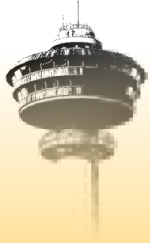
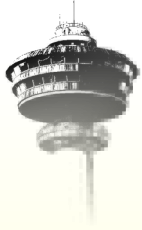
new style, some minor enhancements
git-svn-id: svn+ssh://majakari.net/tampere.rb/trunk@301 493adb5e-7a96-4b8c-87dc-e541e2512a3b

diff --git a/public/stylesheets/general.css b/public/stylesheets/general.css
@@ -1,48 +1,36 @@
 /* default styles originally from scaffold */
 
-/* streamlined colors
-yellow bg: ffe29e
-yellow: ffff9e
-red: 8a2628
-white: fffdff
-green: 475a22
-g1: 7e6f48
-g2: 9c9966
-lg: b9bd9c
-
-*/
-
-/* colors from streamlined era color theme */
-
 html { 
   margin-left: 10%;
   margin-right: 10%;
-  margin-top: 1em;
+  margin-top: 0.5em;
 }
 
-body { background-color: #ffe29e; /* yellow */
+body { background-color: #ffffef;
        background-image: url("/images/nasinneula-silhouette.png");
        background-repeat: no-repeat;
        color: #000;
-       width: 98%;
+       width: 100%;
 }
 
 
-html, body {
-  height: 95%;
+html { height: 95%;}
+body { height: 95%; }
+
+h1, h2, h3 { color: #8f0000; 
+  font-family: Georgia, Times, "Times New Roman", serif; 
 }
 
 body, p, ol, ul, td {
-  font-family: verdana, arial, helvetica, sans-serif;
-  font-size:   9pt;
-  line-height: 18px;
+  font-family: Verdana, Helvetica, Arial, sans-serif;
+  font-size: 9pt;
+  line-height: 2em;
 }
 
 td { vertical-align: top; }
 
-
 pre {
-  background-color: #ffffe9;
+  background-color: #ffffa0;
   padding: 10px;
   font-size: 9pt;
 }
@@ -51,7 +39,7 @@ pre {
 }
 
 a {
-  color: #475a22; /* green */
+  color: #404080; 
   font-weight: bold;
   text-decoration: none;
 }
@@ -67,9 +55,8 @@ a:hover { background-color: #fffdff; }
 h1 { font-size: 160%; }
 h2 {
   font-size: 140%;
-  color: #7e6f48;
-  background: #b9bd9c;
-  padding: 0.25em 0.5em 0.25em 0.5em;
+  /* top right bottom left */
+  padding: 0.25em 0.5em 0.25em 0em;
 }
 h3 { font-size: 125%; margin-top: 1em; }
 
@@ -162,22 +149,29 @@ th { text-align: left; padding-bottom: 0.5em; }
 }
 
 .add_new, .add_new a {
-  color: #fffdff;
   font-weight: bold;
 }
 
-.add_new a:hover { background-color: #475a22; }
+.add_new a:hover { background-color: #c0f0c0; }
 
 #menu
 {
   clear: both;
   padding-top: 0em;
+
 }
 
-#menu span
+
+#menu
 {
   font-size: 120%;
-  padding-right: 0.5em;
+  margin: 0;
+  padding: 0.5em;
+}
+
+#menu { border: 1px dashed gray; }
+#menu span { margin-right: 3em; }
+#menu .current {
 }
 
 
@@ -259,9 +253,8 @@ select:focus
   margin-right: 0em;
   margin-left: 2em;
   padding: 1em;
-  background-color: #ffff9e;
 }
 
 table.compact { width: 50%; }
 
-.highlight { background-color: #ffff9e; }
+.tidbit, .highlight { background-color: #ffffce; }

diff --git a/public/stylesheets/events.css b/public/stylesheets/events.css
@@ -2,10 +2,8 @@
 tr.upcoming td { padding-bottom: 1em; }
 tr.past { padding-top: 0.5em; color: #777; }
 
-#date_header { width: 5%; padding-bottom: 1em;}
-#program_header { width: 60%; }
-#location_header { width: 15%; }
-#registered_header { width: 20%; }
+#coordinates { width: 25%; }
+#program_header { width: 70%; }
 
 .list .button-to { margin-left: 1em; }
 

diff --git a/app/controllers/events_controller.rb b/app/controllers/events_controller.rb
@@ -8,8 +8,7 @@ class EventsController < ApplicationController
   # GET /events
   # GET /events.xml
   def index
-    @coming_events, @past_events = Event.find_coming_and_past(5)
-    @coming_events.reverse!
+    @events = Event.find_upcoming(5).reverse
 
     respond_to do |format|
       format.html # index.html.erb
@@ -20,10 +19,8 @@ class EventsController < ApplicationController
   # GET /events/archived
   # GET /events/archived.xml
   def archived
-    events = Event.find_recent(100)
     now = Time.now
-    @coming_events = []
-    @past_events = events.select { |e| e.date < now }
+    @events = Event.find_recent(100).select { |e| e.date < now }
 
     respond_to do |format|
       format.html { render :action => :index }
@@ -92,6 +89,7 @@ class EventsController < ApplicationController
     respond_to do |format|
       # TODO: belongs to Event#update_from_form?
       params[:event]['date'] = EuropeanDate.to_iso(params[:event]['date'])
+      begin
       if @event.update_attributes(params[:event])
         flash[:notice] = 'Tapahtuma päivitetty.'
         format.html { redirect_to(@event) }
@@ -99,6 +97,10 @@ class EventsController < ApplicationController
       else
         format.html { render :action => "edit" }
         format.xml  { render :xml => @event.errors, :status => :unprocessable_entity }
+      end
+      rescue ActiveRecord::StaleObjectError => e
+        flash[:notice] = 'Valitettavasti tapahtumaa muokkasi jo joku
+    toinen. Yritä myöhemmin uudestaan.'
       end
     end
   end

diff --git a/app/controllers/users_controller.rb b/app/controllers/users_controller.rb
@@ -2,20 +2,22 @@ class UsersController < ApplicationController
   # Be sure to include AuthenticationSystem in Application Controller instead
   include AuthenticatedSystem
 
-  # TODO: authenticated users can remove other users
   before_filter :login_required, :only => [:index, :destroy]
 
-  # render new.rhtml
   def new
+  end
+
+  def show
+    @user = User.find params[:id]
   end
 
   def index
     @users = User.find(:all)
   end
-  
+
   def create
     cookies.delete :auth_token
-    # protects against session fixation attacks, wreaks havoc with 
+    # protects against session fixation attacks, wreaks havoc with
     # request forgery protection.
     # uncomment at your own risk
     # reset_session
@@ -28,20 +30,20 @@ class UsersController < ApplicationController
       render :action => 'new'
     end
   end
-  
+
   def destroy
     # TODO: too complex for controller
     current_user_id = current_user.id
-    u = User.find params[:id] 
+    u = User.find params[:id]
     u.destroy if current_user.admin? || current_user_id == u.id
 
     return_path = users_path
-    
+
     if current_user_id == params[:id]
       reset_session
       return_path = events_path
     end
-    
+
     respond_to { |format|
       format.html { redirect_to return_path }
       format.xml  { head :ok }

diff --git a/app/models/event.rb b/app/models/event.rb
@@ -22,9 +22,9 @@ class Event < ActiveRecord::Base
   end
 
   # Find #count most recent events, partitioned to coming and past
-  def self.find_coming_and_past(count)
+  def self.find_upcoming(count)
     day_start = Time.now.beginning_of_day
-    find_recent(count).partition { |e| e.date >= day_start }
+    find_recent(count).select { |e| e.date >= day_start }
   end
 
   # Find most recent event
@@ -32,8 +32,8 @@ class Event < ActiveRecord::Base
     find(:first, :order => 'date DESC')
   end
 
-  # Find next upcoming event, returning nil if not found
-  def self.find_upcoming
+  # Find next upcoming event, return nil if not found
+  def self.find_first_in_future
     find(:first, :conditions => ['date >= ?', Time.now], :order => 'date ASC')
   end
 

diff --git a/spec/models/event_spec.rb b/spec/models/event_spec.rb
@@ -17,12 +17,12 @@ describe Event do
     end
   end
 
-  it "can be asked for most recent (doesn't check the query)" do
+  it "can be asked for most recent (doesn't check the result)" do
     Event.find_most_recent
   end
 
-  it "can be asked for next upcoming event (doesn't check the query)" do
-    Event.find_upcoming
+  it "can be asked for next upcoming event (doesn't check the result)" do
+    Event.find_first_in_future
   end
 
   it "can tell how many users are attending it" do

diff --git a/app/helpers/application_helper.rb b/app/helpers/application_helper.rb
@@ -28,5 +28,13 @@ module ApplicationHelper
   def build_selection(objects, menu_attribute)
     objects.map { |obj| [obj.send(menu_attribute), obj.id] }
   end
+
+  def menu_link_to(description, path, request)
+    span_id = description.downcase
+    if path != request.path
+      description += " &raquo;" unless path == request.path
+    end
+    content_tag(:span, link_to(description, path), :id => span_id)
+  end
 end
 

diff --git a/db/migrate/010_add_user_web_page_and_description.rb b/db/migrate/010_add_user_web_page_and_description.rb
@@ -1,0 +1,11 @@
+class AddUserWebPageAndDescription < ActiveRecord::Migration
+  def self.up
+    add_column :users, :web_page, :string
+    add_column :users, :description, :text
+  end
+
+  def self.down
+    remove_column :users, :web_page
+    remove_column :users, :description
+  end
+end

diff --git a/lib/workers/mailer_worker.rb b/lib/workers/mailer_worker.rb
@@ -12,7 +12,7 @@ class MailerWorker < BackgrounDRb::MetaWorker
   end
 
   def remind_about_coming_event(days_before)
-    evt = Event.find_upcoming
+    evt = Event.find_first_in_future
     return nil unless evt && evt.days_to == days_before
 
     evt.attendees.each do |user|

diff --git a/db/migrate/011_add_optimistic_locking_to_events.rb b/db/migrate/011_add_optimistic_locking_to_events.rb
@@ -1,0 +1,9 @@
+class AddOptimisticLockingToEvents < ActiveRecord::Migration
+  def self.up
+    add_column :events, :lock_version, :integer, :default => 0
+  end
+
+  def self.down
+    remove_column :events, :lock_version
+  end
+end
